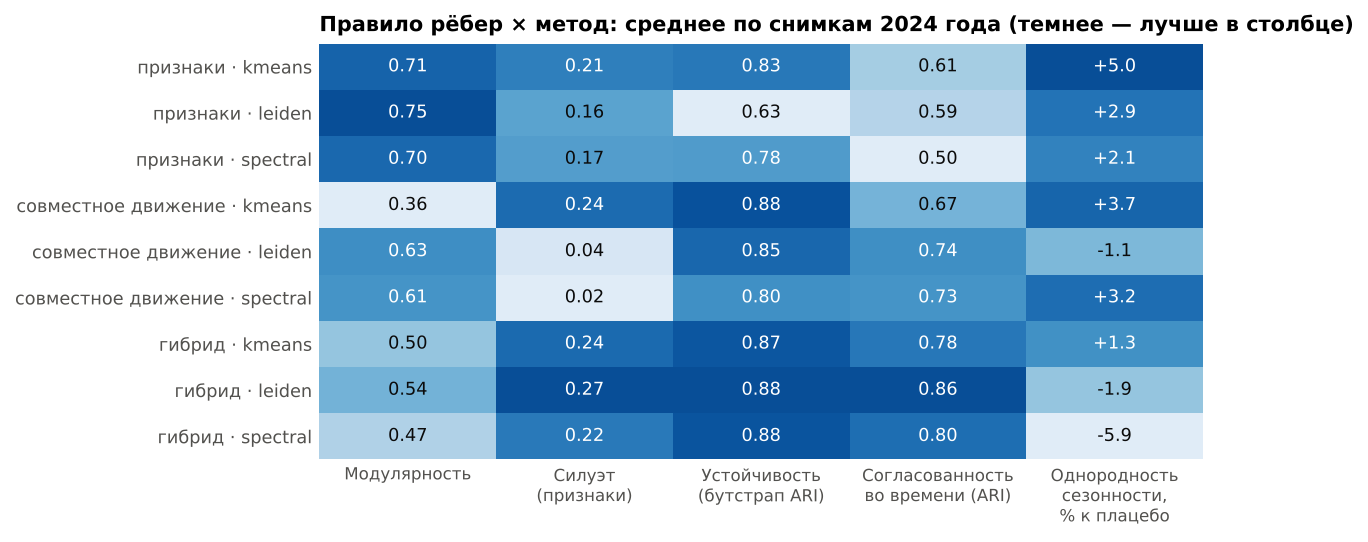
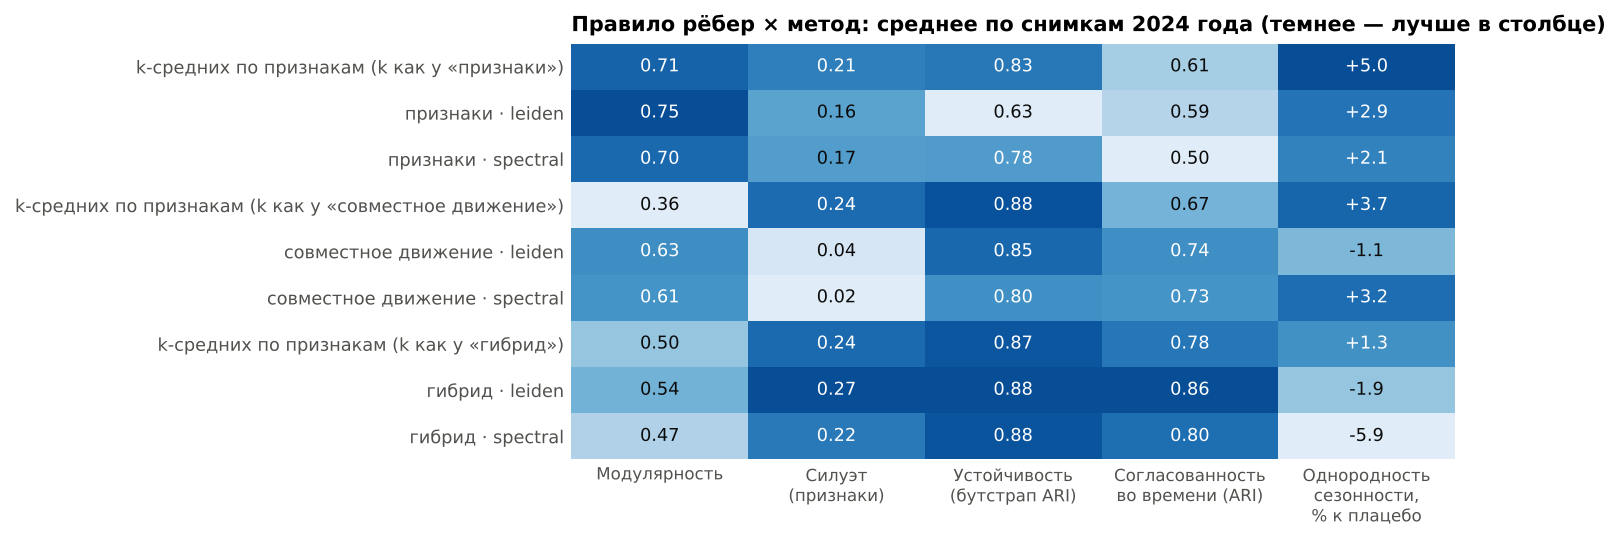
Разбор рецензента: ориентиры для географии, две спецификации проверки прогнозом, шум Leiden между зёрнами, подписи k-средних, оговорки о выборе спецификации

diff --git a/src/sclusters/pipeline.py b/src/sclusters/pipeline.py
@@ -365,9 +365,24 @@ def stage_geo(run: Run):
                 same0 = (S.loc[pa, "region"].to_numpy() == S.loc[pb, "region"].to_numpy()).mean()
                 d0 = np.median(_haversine(S.loc[pa, "lon"].to_numpy(), S.loc[pa, "lat"].to_numpy(),
                                           S.loc[pb, "lon"].to_numpy(), S.loc[pb, "lat"].to_numpy()))
+                # более строгий ориентир: случайные пары МО одного типа по названию и одного основного типа
+                tp = pd.Series([D.mo_type(x) for x in S.index], index=S.index)
+                main = run.partition(t, v, cfg["graph"]["main_rule"], cfg["cluster"]["main_method"]).reindex(S.index)
+                base = {}
+                for bname, key in [("same_region_random_same_motype", tp), ("same_region_random_same_maintype", main)]:
+                    hits, tot = 0, 0
+                    for _, grp in S.groupby(key.to_numpy()):
+                        if len(grp) < 2:
+                            continue
+                        n = min(4000, len(grp) * 20)
+                        ia, ib = rng.integers(0, len(grp), n), rng.integers(0, len(grp), n)
+                        k = ia != ib
+                        hits += (grp["region"].to_numpy()[ia[k]] == grp["region"].to_numpy()[ib[k]]).sum()
+                        tot += k.sum()
+                    base[bname] = float(hits / max(tot, 1))
                 rows.append({"month": str(t.date()), "rule": r, "scope": scope, "edges": int(m.sum()),
                              "same_region_share": float(same.mean()), "same_region_random": float(same0),
-                             "median_km": float(np.median(d)), "median_km_random": float(d0)})
+                             **base, "median_km": float(np.median(d)), "median_km_random": float(d0)})
     E = pd.DataFrame(rows)
     E.to_csv(run.out / "geo_edges.csv", index=False)
     # согласие кластеров с регионами (AMI) по всем конфигурациям
@@ -395,7 +410,19 @@ def stage_geo(run: Run):
     conc = (ok.loc[lab.index].assign(c=lab).groupby("region")["c"]
             .agg(n="size", top_share=lambda x: x.value_counts(normalize=True).iloc[0],
                  top_cluster=lambda x: int(x.value_counts().index[0])))
-    conc[conc.n >= 15].sort_values("top_share", ascending=False).to_csv(run.out / "geo_region_concentration.csv")
+    conc = conc[conc.n >= 15].sort_values("top_share", ascending=False)
+    # ориентир: та же статистика при случайной перестановке меток кластеров (200 повторов)
+    sub = ok.loc[lab.index]
+    big = conc.index
+    perm_med = []
+    for _ in range(200):
+        pl = pd.Series(rng.permutation(lab.to_numpy()), index=lab.index)
+        sh = sub.assign(c=pl).groupby("region")["c"].agg(lambda x: x.value_counts(normalize=True).iloc[0])
+        perm_med.append(float(sh.reindex(big).median()))
+    conc.to_csv(run.out / "geo_region_concentration.csv")
+    (run.out / "geo_region_concentration_null.json").write_text(json.dumps(
+        {"median_top_share": float(conc.top_share.median()), "permutation_median_mean": float(np.mean(perm_med)),
+         "permutation_median_p95": float(np.quantile(perm_med, 0.95)), "n_regions": int(len(conc))}), encoding="utf-8")
     return E
 
 

diff --git a/src/sclusters/figures.py b/src/sclusters/figures.py
@@ -59,7 +59,8 @@ def fig_method_matrix(out: Path, figs: Path, cfg):
                     color="white" if norm.iat[i, j] > 0.6 else INK, fontsize=8.5)
     ax.set_xticks(range(len(cols)), list(cols.values()), fontsize=8)
     rn = {"attr": "признаки", "comove": "совместное движение", "hybrid": "гибрид"}
-    ax.set_yticks(range(len(M)), [f"{rn[r]} · {m}" for r, m in M.index], fontsize=8.5)
+    ax.set_yticks(range(len(M)), [f"{rn[r]} · {m}" if m != "kmeans" else f"k-средних по признакам (k как у «{rn[r]}»)"
+                                  for r, m in M.index], fontsize=8.5)
     ax.tick_params(length=0)
     for s in ax.spines.values():
         s.set_visible(False)
@@ -84,7 +85,7 @@ def fig_agreement(out: Path, figs: Path, cfg):
             ax.text(j, i, f"{M.iat[i, j]:.2f}", ha="center", va="center", fontsize=7.5,
                     color="white" if M.iat[i, j] > 0.6 else INK)
     rn = {"attr": "призн.", "comove": "движ.", "hybrid": "гибр."}
-    lab = [f"{rn[k.split('/')[0]]}/{k.split('/')[1]}" for k in keys]
+    lab = [f"{rn[k.split('/')[0]]}/{k.split('/')[1]}" if k.split('/')[1] != "kmeans" else f"k-ср. (k {rn[k.split('/')[0]]})" for k in keys]
     ax.set_xticks(range(len(keys)), lab, rotation=60, ha="right", fontsize=7.5)
     ax.set_yticks(range(len(keys)), lab, fontsize=7.5)
     ax.tick_params(length=0)

diff --git a/src/sclusters/validate.py b/src/sclusters/validate.py
@@ -90,7 +90,7 @@ def summarize(E: pd.DataFrame) -> pd.DataFrame:
             pm = g["ae_sum"] / g["n"]
             row.update({"placebo_MAE_mean": pm.mean(), "placebo_MAE_p05": pm.quantile(0.05),
                         "p_vs_placebo": float((pm <= e.mean()).mean())})
-            # блочный бутстрап по месяцам прогноза: разница с национальным фактором
+            # средняя разница с национальным фактором по каждой точке прогноза
             d = (e - nat.reindex(e.index)).groupby(level="origin").mean()
             row["diff_by_origin"] = ";".join(f"{x:.0f}" for x in d)
         rows.append(row)

diff --git a/report/methodology.md b/report/methodology.md
@@ -12,19 +12,19 @@
 
 Вопрос работы: если представить 1 904 муниципальных образования как сеть, где ребро означает экономическую близость, какие группы в ней видны, насколько они устойчивы и меняются ли они от месяца к месяцу. Ответ зависит от того, что считать близостью, и это главный результат.
 
-**Первый. «Похожи» и «движутся вместе» — разные сети.** Если соединять МО по сходству уровня и структуры расходов, получается одно разбиение, если по совместному движению месячных расходов — другое. Согласие двух разбиений по скорректированному индексу Рэнда — 0,16 из 1. Это не шум: каждое из них воспроизводится на подвыборках МО (ARI 0,63 и 0,85).
+**Первый. «Похожи» и «движутся вместе» — разные сети.** Если соединять МО по сходству уровня и структуры расходов, получается одно разбиение, если по совместному движению месячных расходов — другое. Согласие двух разбиений по скорректированному индексу Рэнда — 0,16 из 1. Разбиение по совместному движению хорошо воспроизводится на подвыборках МО (ARI 0,85), разбиение по сходству — заметно хуже (0,63).
 
-**Второй. Совместное движение расходов само восстанавливает географию.** Региона и координат в данных нет. Тем не менее 21 % рёбер совместного движения соединяют МО одного региона, против 1,8 % у случайных пар (без Москвы и Санкт-Петербурга, внутренние территории которых в выгрузке выделены отдельно). Медианное расстояние между соседями — 611 км против 1 478. Кластеры совместного движения складываются в шесть макрорайонов: Москва с областью, Санкт-Петербург с Северо-Западом, Север и Дальний Восток, Волго-Уральский пояс, Сибирь с Центральной Россией, Ставрополье с соседями. Республика Татарстан на 93 % попадает в один кластер, вместе с Башкортостаном, Удмуртией, Свердловской и Оренбургской областями.
+**Второй. Сеть, построенная без координат, сильно связана с географией.** Региона и координат в данных нет. Тем не менее 21 % рёбер совместного движения соединяют МО одного региона (без Москвы и Санкт-Петербурга, внутренние территории которых в выгрузке выделены отдельно). У случайных пар — 1,8 %, у случайных пар МО одного типа по названию — 5,7 %, у пар одного основного типа — 8,2 %. Медианное расстояние между соседями — 611 км против 1 470. Сходство по уровню и структуре тоже географично (17 % рёбер внутри региона): совместное движение добавляет к нему примерно четыре процентных пункта. Пять из шести кластеров совместного движения читаются как макрорайоны: Москва с областью, Санкт-Петербург с Северо-Западом, Север и Дальний Восток, Волго-Уральский пояс, Ставрополье с соседями; шестой, самый крупный, — остаточный. Республика Татарстан на 93 % попадает в волго-уральский кластер.
 
-**Третий. Типов немного, и они почти не меняются за год.** Основное разбиение (гибридная сеть, Leiden) даёт четыре типа: районы и малые города, столичные агломерации, региональные города, Север и Дальний Восток. 90 % МО ни разу не сменили тип за 12 месяцев, в среднем за месяц тип меняют 1,9 % МО. Единственный устойчивый поток — из районов в региональные города: 56 МО за год, обратно 9.
+**Третий. Типов немного, и за год они меняются мало.** Основное разбиение (гибридная сеть, Leiden) даёт четыре типа: районы и малые города, столичные агломерации, региональные города, Север и Дальний Восток. За месяц тип меняют от 1,9 % МО (кластеризация стартует с разбиения прошлого месяца) до 5,9 % (каждый месяц с нуля); два запуска на одном и том же снимке с разными зёрнами расходятся на 1,7 %. Окна соседних снимков перекрываются, поэтому часть устойчивости механическая. Заметный нетто-поток один — из районов в региональные города: за год 56 МО против 9 обратно.
 
-**Четвёртый, отрицательный. Типы не помогают прогнозу.** Если строить прогноз расходов от общего фактора своего типа, а не страны, ошибка растёт на 3,9 %, и разбиение не лучше случайных групп тех же размеров. Сезонная динамика 2023–2024 годов общая для страны; типы различаются уровнем, структурой и географией, а не ритмом. Это согласуется с главным выводом «Шока по расписанию»: панель страны целиком — лучший ориентир для короткого прогноза.
+**Четвёртый, отрицательный. Типы не помогают прогнозу.** Если строить прогноз расходов от общего фактора своего типа, а не страны, ошибка растёт на 1,5–3,9 % в зависимости от спецификации, и разбиение не лучше случайных групп тех же размеров. Ни одно из 18 сравнённых разбиений не обыгрывает фактор страны больше чем на 1 %. Сезонная динамика 2023–2024 годов общая для страны; типы различаются уровнем, структурой и географией, а не ритмом. Это согласуется с главным выводом «Шока по расписанию»: панель страны целиком — лучший ориентир для короткого прогноза.
 
 ---
 
 ## 2. Данные
 
-Выгрузка СберИндекса от 25.11.2025, sha256 `dbe07d6a…15e0f1` — та же, что в «Шоке по расписанию». Показатель — безналичные потребительские расходы в рублях в определении СберИндекса, месячная частота, 01.2023–12.2024, шесть рядов на МО: «Все категории» и пять категорий (продовольствие, маркетплейсы, транспорт, здоровье, общественное питание).
+Выгрузка СберИндекса от 25.11.2025, sha256 `dbe07d6a…15e0f1` — та же, что в «Шоке по расписанию». Показатель — безналичные потребительские расходы в рублях в определении СберИндекса (в описании выгрузки не уточняется, на какую единицу — жителя, клиента или карту — они приходятся), месячная частота, 01.2023–12.2024, шесть рядов на МО: «Все категории» и пять категорий (продовольствие, маркетплейсы, транспорт, здоровье, общественное питание).
 
 | | |
 |---|---|
@@ -58,7 +58,7 @@
 
 Признаки стандартизуются робастно (медиана, межквартильный размах), обрезаются на ±5, и вес блока делится между его признаками, чтобы блок из шести признаков не перевешивал блок из одного.
 
-**Основной вариант — level + structure, без growth.** Сначала основным был полный набор. Внешняя проверка (§7) показала, что разбиения, в которых участвует текущий прирост, хуже случайных групп тех же размеров: они собирают МО с одинаковым временным отклонением, которое затем рассасывается. Тип локальной экономики — то, чем МО является, а не куда его качнуло в этом квартале; изменение во времени дают сами ежемесячные снимки. Полный вариант сохранён в конфигурации и во всех таблицах сравнения.
+**Основной вариант — level + structure, без growth.** Сначала основным был полный набор. Решение исключить прирост принято после внешней проверки на тех же точках прогноза (§7), то есть по тестовым данным, и это нужно учитывать. В основной спецификации проверки разбиения по сходству с приростом хуже случайных групп тех же размеров: они собирают МО с одинаковым временным отклонением, которое затем рассасывается. Содержательный довод тот же: тип локальной экономики — то, чем МО является, а не куда его качнуло в этом квартале; изменение во времени дают сами ежемесячные снимки. Полный вариант сохранён в конфигурации и во всех таблицах сравнения.
 
 ### 3.2. Три правила рёбер
 
@@ -72,7 +72,7 @@
 
 Графы неориентированные: ребро есть, если хотя бы один конец входит в k соседей другого. Все графы связные, средняя степень 14 у attr, 15 у comove, 28 у гибрида (`outputs/graph_summary.csv`).
 
-Правило comove не зависит от признаков узла, поэтому его разбиения одинаковы в обоих вариантах признаков.
+Граф comove не зависит от признаков узла, поэтому разбиения Leiden и спектральной кластеризации на нём одинаковы в обоих вариантах признаков.
 
 ---
 
@@ -81,9 +81,9 @@
 **Методы.**
 - **Leiden** (Traag, Waltman, van Eck, 2019) — максимизация качества разбиения в RB-конфигурационной модели с параметром разрешения γ, 10 запусков с разными зёрнами, берётся лучший. Число кластеров выбирает метод. Leiden работает только со структурой графа: признаки попадают в него через веса рёбер attr и hybrid.
 - **Спектральная кластеризация** на той же матрице смежности, число кластеров — как у Leiden на том же снимке.
-- **k-средних на признаках без графа**, то же число кластеров. Контроль: что сеть добавляет к признакам.
+- **k-средних на признаках без графа**, то же число кластеров. Контроль: что сеть добавляет к признакам. Граф в k-средних не участвует, поэтому строки «k-средних» в таблицах различаются только числом кластеров, взятым у Leiden на соответствующем правиле.
 
-Кластеры меньше 15 МО переносятся в кластер, с которым у их узлов больше всего веса рёбер.
+Узлы кластеров меньше 15 МО переносятся в кластер, с которым у них больше всего веса рёбер, а при отсутствии рёбер — к ближайшему центроиду.
 
 **Метрики.**
 
@@ -106,31 +106,31 @@
 
 | Правило · метод | k | Модулярность | Силуэт | Устойчивость | Во времени | AMI с регионом | Прогноз к плацебо |
 |---|---|---|---|---|---|---|---|
-| сходство · Leiden | 8,1 | 0,75 | 0,16 | 0,63 | 0,59 | 0,32 | −2,9 % |
+| сходство · Leiden | 8,1 | 0,75 | 0,16 | 0,63 | 0,59 | 0,31 | −2,9 % |
 | сходство · спектральная | 8,1 | 0,70 | 0,17 | 0,78 | 0,50 | 0,28 | −2,1 % |
-| сходство · k-средних | 8,1 | 0,71 | 0,21 | 0,83 | 0,61 | 0,29 | −5,0 % |
+| k-средних по признакам, k = 8 | 8,1 | 0,71 | 0,21 | 0,83 | 0,61 | 0,29 | −5,0 % |
 | движение · Leiden | 5,8 | 0,63 | 0,04 | 0,85 | 0,74 | 0,26 | +1,1 % |
-| движение · спектральная | 5,8 | 0,61 | 0,02 | 0,80 | 0,74 | 0,26 | −3,2 % |
-| движение · k-средних | 5,8 | 0,36 | 0,24 | 0,88 | 0,67 | 0,26 | −3,7 % |
+| движение · спектральная | 5,8 | 0,61 | 0,02 | 0,80 | 0,73 | 0,26 | −3,2 % |
+| k-средних по признакам, k = 6 | 5,8 | 0,36 | 0,24 | 0,88 | 0,67 | 0,26 | −3,7 % |
 | **гибрид · Leiden** | **4,1** | **0,54** | **0,27** | **0,88** | **0,86** | **0,25** | **+1,9 %** |
 | гибрид · спектральная | 4,1 | 0,47 | 0,22 | 0,88 | 0,80 | 0,23 | +5,9 % |
-| гибрид · k-средних | 4,1 | 0,50 | 0,24 | 0,87 | 0,78 | 0,21 | −1,3 % |
+| k-средних по признакам, k = 4 | 4,1 | 0,50 | 0,24 | 0,87 | 0,78 | 0,21 | −1,3 % |
 
-Последний столбец — ошибка прогноза относительно средней по 50 случайным разбиениям тех же размеров; минус — разбиение лучше случайного.
+Модулярность у k-средних посчитана на графе соответствующего правила. AMI с регионом включает внутригородские территории Москвы и Санкт-Петербурга и поэтому завышен для всех строк одинаково. Последний столбец — ошибка прогноза в основной спецификации (§7) относительно средней по 50 случайным разбиениям тех же размеров; минус — разбиение лучше случайного.
 
 Что видно.
 
-**Правило рёбер важнее метода.** Внутри одного правила три метода согласуются заметно лучше, чем один метод на разных правилах (рис. 2). Leiden на сходстве и Leiden на совместном движении согласуются на 0,16, гибрид — посередине (0,31 со сходством, 0,50 с движением).
+**Правило рёбер важнее метода.** Leiden на сходстве и Leiden на совместном движении согласуются на 0,16, гибрид — посередине (0,31 со сходством, 0,50 с движением). Внутри одного правила методы согласуются лучше (рис. 2), но часть этого согласия обеспечена тем, что у них одинаковое число кластеров.
 
-**Сеть даёт структуру, признаки — компактность.** k-средних выигрывает по силуэту, что ожидаемо: он оптимизирует именно компактность в признаках. Leiden выигрывает по модулярности на всех трёх правилах. Спектральная кластеризация на гибриде собирает 66 % МО в один кластер — это её известная слабость на графах с неравномерной плотностью.
+**Сеть даёт структуру, признаки — компактность.** При 6 и 8 кластерах k-средних выигрывает по силуэту, что ожидаемо: он оптимизирует именно компактность в признаках. При четырёх кластерах лучший силуэт у Leiden на гибриде (0,27 против 0,24). Leiden выигрывает по модулярности на всех трёх правилах. Спектральная кластеризация на гибриде собирает 66 % МО в один кластер — это её известная слабость на графах с неравномерной плотностью.
 
-**Почему основная конфигурация — гибрид · Leiden.** Наибольшая согласованность во времени (0,86), высокая устойчивость (0,88), лучший силуэт среди сетевых методов, при этом четыре кластера читаются как содержательные типы (§6). По внешней проверке прогнозом она не лучше случайных групп; это обсуждается в §7 и не скрыто.
+**Почему основная конфигурация — гибрид · Leiden.** Наибольшая согласованность во времени (0,86), высокая устойчивость (0,88), лучший силуэт среди всех строк, при этом четыре кластера читаются как содержательные типы (§6). По внешней проверке прогнозом она не лучше случайных групп; это обсуждается в §7 и не скрыто.
 
 ---
 
 ## 6. Типы локальных экономик
 
-Основная конфигурация, декабрь 2024 года (`outputs/profiles.csv`, рис. 5 и 9). Названия — авторская интерпретация профилей, состава по типу МО и географии.
+Основная конфигурация, снимок декабря 2024 года: признаки — средние за октябрь–декабрь (`outputs/profiles.csv`, рис. 5 и 9). Названия — авторская интерпретация профилей, состава по типу МО и географии.
 
 | Тип | МО | Расходы, медиана, руб. | Продовольствие | Маркетплейсы | Общепит | Транспорт | Состав |
 |---|---|---|---|---|---|---|---|
@@ -141,35 +141,37 @@
 
 Для сравнения: медиана по всем МО — 29 200 руб., доля продовольствия 42 %, маркетплейсов 18,5 %, общепита 2,5 %.
 
-**Ось «столица — район» — это ось обязательных и необязательных расходов.** От района к столице доля продовольствия падает с 44 до 31 %, доля общепита растёт вчетверо, с 1,6 до 7,2 %. Маркетплейсы — исключение из этой логики: их доля выше всего в районах (20 %), где физическая розница беднее.
+**Ось «столица — район» — это ось обязательных и необязательных расходов.** От района к столице доля продовольствия падает с 44 до 31 %, доля общепита растёт вчетверо, с 1,6 до 7,2 %. Маркетплейсы — исключение из этой логики: их доля выше всего в районах (20 %).
 
-**Север и Дальний Восток — отдельный тип, а не «богатые районы».** По уровню расходов он между региональными городами и столицами, а по структуре ближе к районам: много продовольствия, мало маркетплейсов (13,6 %, минимум среди типов) и мало расходов на здоровье. Похоже на северную надбавку к доходу при ограниченном предложении услуг и дорогой доставке.
+**Север и Дальний Восток — отдельный тип, а не «богатые районы».** По уровню расходов он между региональными городами и столицами, а по структуре ближе к районам: много продовольствия, мало маркетплейсов (13,6 %, минимум среди типов) и мало расходов на здоровье. Одна из возможных причин — северные надбавки к доходу при ограниченном предложении услуг и дорогой доставке; здесь это не проверялось.
 
-**Маркетплейсы догоняют там, где их меньше всего.** Годовой прирост расходов на маркетплейсах в декабре 2024 года относительно медианы МО (разность log-приростов): Север и Дальний Восток +0,11, районы +0,04, столицы −0,11, то есть на Севере расходы на маркетплейсах росли примерно на 12 % быстрее, чем в типичном МО, а в столицах — на 10 % медленнее. Прирост в разбиении не участвует, поэтому это независимое наблюдение, а не следствие построения: доставка распространяется от центра к периферии.
+**Маркетплейсы растут быстрее там, где их доля ниже.** Годовой log-прирост расходов на маркетплейсах в октябре–декабре 2024 года относительно медианы МО: Север и Дальний Восток +0,11, районы +0,04, столицы −0,11. Иначе говоря, годовой индекс расходов на маркетплейсах у медианного северного МО примерно в 1,12 раза выше, чем у типичного, а у столичного — в 0,90 раза. Прирост в разбиении не участвует, но с уровнем расходов, который участвует, он связан (ранговая корреляция −0,40), так что это наблюдение не вполне независимо от построения. Распространение доставки от центра к периферии — гипотеза, которую эти данные не проверяют.
 
 ---
 
 ## 7. Внешняя проверка через прогноз
 
-Если кластер — реальный тип экономики с общей динамикой, то общий фактор кластера должен описывать его МО лучше, чем общий фактор страны. Проверка — контрольная модель `factor_only` из «Шока по расписанию», в которой фактор считается внутри кластера. Модель не обучает ни одного параметра: МО держит своё последнее отклонение от фактора, фактор продлевается на 1–3 месяца по своему значению год назад с поправкой на годовой прирост страны. Разбиение для точки прогноза T строится по снимку T. Точки прогноза — июнь–сентябрь 2024 года, 22 848 пар МО × точка × горизонт.
+Если кластер — реальный тип экономики с общей динамикой, то общий фактор кластера должен описывать его МО лучше, чем общий фактор страны. Проверка — контрольная модель `factor_only` из «Шока по расписанию», в которой фактор считается внутри кластера. Модель не обучает ни одного параметра: МО держит своё последнее отклонение от фактора, фактор продлевается на 1–3 месяца по своему значению год назад с поправкой на годовой прирост. Разбиение для точки прогноза T строится по снимку T. Точки прогноза — июнь–сентябрь 2024 года, 22 848 пар МО × точка × горизонт.
 
-Контроль — 50 случайных перестановок меток с теми же размерами кластеров: выигрыш, который даёт любое деление на группы такого размера, не засчитывается.
+Две спецификации различаются тем, чей годовой прирост переносится вперёд: в основной — прирост страны (кластер даёт только сезонный профиль), во второй — прирост самого кластера. Контроль — 50 случайных перестановок меток с теми же размерами кластеров. Ориентир — деление МО на пять групп по типу из названия (район, округ, городской округ, город, внутригородская территория).
 
-| Разбиение | MAE, руб. | к фактору страны | к плацебо |
-|---|---|---|---|
-| Фактор страны | 954,5 | — | — |
-| Основное: гибрид · Leiden | 992,1 | +3,9 % | +1,9 %, хуже 94 % случайных |
-| Лучшее: движение · k-средних | 946,7 | −0,8 % | −3,7 %, лучше всех случайных |
-| Сходство · k-средних | 951,3 | −0,3 % | −5,0 %, лучше всех случайных |
-| С текущим приростом в признаках: сходство · Leiden | 1 039,3 | +8,9 % | +6,0 %, хуже всех случайных |
+| Разбиение | MAE, основная | к фактору страны | к плацебо | MAE, прирост кластера | к плацебо |
+|---|---|---|---|---|---|
+| Фактор страны | 954,5 | — | — | 954,5 | — |
+| **Основное: гибрид · Leiden** | 992,1 | +3,9 % | +1,9 % | 969,0 | +0,2 % |
+| Сходство · Leiden | 968,6 | +1,5 % | −2,9 % | 987,2 | −0,3 % |
+| k-средних по признакам, k = 6 | 946,7 | −0,8 % | −3,7 % | 973,4 | −0,4 % |
+| k-средних по признакам, k = 8 | 951,3 | −0,3 % | −5,0 % | 1 010,8 | +2,0 % |
+| Тип МО по названию | 961,5 | +0,7 % | −2,0 % | 1 024,5 | +5,2 % |
+| С приростом в признаках: сходство · Leiden | 1 039,3 | +8,9 % | +6,0 % | 1 006,1 | +3,2 % |
 
-Три вывода.
+Полная таблица — `outputs/validation_forecast.csv`.
 
-**Общий фактор страны не побеждён.** Лучшее разбиение улучшает его на 0,8 %, и выигрыш неустойчив по точкам прогноза. Двух лет мало, чтобы оценить сезонность группы из сотни МО точнее, чем сезонность двух тысяч.
+**Общий фактор страны не побеждён.** Ни одно из 18 разбиений ни в одной спецификации не улучшает его больше чем на 1 %, и выигрыш неустойчив по точкам прогноза. Двух лет мало, чтобы оценить сезонность группы из сотни МО точнее, чем сезонность двух тысяч.
 
-**Признаки уровня и структуры несут информацию о сезонности**: разбиения по ним однороднее случайных групп на 2–5 %. Основное разбиение — нет: гибридный граф с крупным кластером районов (56 % МО) сглаживает различия.
+**Сравнение с плацебо зависит от спецификации.** В основной разбиения по уровню и структуре однороднее случайных групп на 2–5 %, но и тривиальное деление по типу МО из названия даёт 2 %. Во второй спецификации ни одно из них от случайных не отличается. Основное разбиение не лучше случайных ни в одной. Поправки на множественные сравнения нет; при 18 разбиениях и 50 перестановках отдельные p ≈ 0 не стоит читать как значимые сами по себе.
 
-**Текущий прирост в признаках вреден.** На правиле сходства все три метода с блоком growth хуже 94–100 % случайных разбиений тех же размеров, а без него — лучше случайных. Это и стало причиной исключить прирост из основного варианта (§3.1).
+**Прирост в признаках.** В основной спецификации все три метода на правиле сходства с блоком growth хуже 94–100 % случайных разбиений. Это стало поводом исключить прирост из основного варианта (§3.1); во второй спецификации картина смешанная (k-средних с приростом лучше случайных), так что вывод держится на одной спецификации и на тех же точках прогноза.
 
 Итог для интерпретации: найденные типы — это типы уровня, структуры и места, а не типы ритма. Ритм 2023–2024 годов у страны общий.
 
@@ -188,14 +190,19 @@ Leiden на каждом снимке независимо даёт номера
 |---|---|---|---|
 | Независимый | 5,9 % | 13,1 % | 0,545 |
 | Эволюционный | 1,9 % | 2,3 % | 0,539 |
+| Ориентир: два запуска на одном снимке с разными зёрнами | 1,7 % | 2,5 % | — |
 
-Цена устойчивости — 0,006 модулярности, то есть почти ничего (рис. 7). Значит, две трети месячной «смены типа» в независимом режиме — шум оптимизации, а не экономика. Дальше используется эволюционный режим.
+Цена устойчивости — 0,006 модулярности (рис. 7). Как читать эти числа. Эволюционный режим по построению держится за прошлое разбиение, поэтому 1,9 % — нижняя граница смены типа. Независимый режим добавляет к реальным переходам расхождение запусков, которое на одном и том же снимке составляет 1,7 %. Реальная доля МО, меняющих тип за месяц, лежит между этими оценками; точнее данные её не определяют.
+
+Максимум независимого режима (13,1 %) приходится на декабрь: при пересчёте с нуля столичный тип распадается на Москву и Санкт-Петербург, и 104 МО переходят в новый кластер. Эволюционный режим этот распад не воспроизводит. Это пример того, что тёплый старт может подавлять реальные изменения. Дальше используется эволюционный режим, с этой оговоркой.
+
+Ещё одна оговорка: признаки соседних снимков считаются по перекрывающимся окнам (два месяца из трёх), граф совместного движения — по окнам с одиннадцатью общими месяцами из двенадцати. Часть устойчивости во времени поэтому механическая.
 
 ### 8.2. Что происходит за год
 
 Кластеры соседних месяцев сопоставляются по коэффициенту Жаккара (венгерский алгоритм), сквозной номер наследуется при Жаккаре не ниже 0,3. События — рождение, исчезновение, слияние, распад — классифицируются по матрице пересечений (Greene, Doyle, Cunningham, 2010).
 
-- Событий за год нет: все четыре типа проходят через 12 месяцев, не сливаясь и не распадаясь.
+- В эволюционном режиме событий за год нет: все четыре типа проходят через 12 месяцев, не сливаясь и не распадаясь (о декабрьском распаде в независимом режиме — выше).
 - 1 718 МО из 1 904 (90,2 %) ни разу не сменили тип.
 - Переходы январь → декабрь (рис. 4, 8):
 
@@ -206,9 +213,9 @@ Leiden на каждом снимке независимо даёт номера
 | Регион. города | 9 | 4 | 273 | 3 |
 | Север | 4 | 1 | 6 | 172 |
 
-Единственный заметный поток — из районов в региональные города (56 против 9 обратно). Тип «региональные города» вырос с 289 до 346 МО, районы сократились с 1 123 до 1 066.
+Заметный нетто-поток один — из районов в региональные города: 56 против 9 обратно при сравнении января с декабрём. Помесячно между этими двумя типами переходы идут в обе стороны (118 туда и 72 обратно за 11 переходов), то есть часть МО находится на границе типов. Тип «региональные города» вырос с 289 до 346 МО, районы сократились с 1 123 до 1 066.
 
-**Паводки весны 2024 года.** Пять городов, названных в первоисточниках поимённо (Орск, Новотроицк, Оренбург, Курган, Ишим), весь год остаются в типе «региональные города». Это согласуется с «Шоком по расписанию»: сдвиг расходов в этих городах (−3,9 п. п. по годовому приросту) виден в категориях, но тип локальной экономики не меняет.
+**Паводки весны 2024 года.** Пять городов, названных в первоисточниках поимённо (Орск, Новотроицк, Оренбург, Курган, Ишим), весь год остаются в типе «региональные города». В «Шоке по расписанию» сдвиг годового прироста расходов в этих городах оценён в −3,9 п. п.; здесь эта оценка не пересчитывалась. Признаки основного варианта не включают прирост, а тёплый старт держит прежний тип, поэтому эта проверка слабая: смена типа здесь и не ожидалась бы.
 
 ---
 
@@ -222,17 +229,19 @@ Leiden на каждом снимке независимо даёт номера
 | неоднозначно (например, «Александровский» есть в нескольких регионах) | 104 |
 | не найдено | 56 |
 
-**Рёбра соединяют соседей.** Доля рёбер внутри одного региона и медианное расстояние между концами ребра (`outputs/geo_edges.csv`), без Москвы и Санкт-Петербурга:
+Выборочная проверка 45 сопоставлений ошибок не нашла. Известные слабые места: не найдены некоторые крупные города (например, Нижний Новгород, Нижний Тагил, Великий Новгород), а у нескольких пар «район — одноимённый город» в OSM общая запись, поэтому у них совпадают центроиды.
 
-| Правило | Внутри региона | У случайных пар | Медиана, км | У случайных пар, км |
-|---|---|---|---|---|
-| сходство | 16,7 % | 1,8 % | 681 | 1 466 |
-| совместное движение | **21,4 %** | 1,8 % | **611** | 1 478 |
-| гибрид | 17,6 % | 1,8 % | 667 | 1 472 |
+**Рёбра соединяют соседей.** Доля рёбер внутри одного региона и медианное расстояние между концами ребра (`outputs/geo_edges.csv`, среднее по 12 снимкам), без Москвы и Санкт-Петербурга. Три ориентира: случайные пары; случайные пары МО одного типа по названию (район с районом, город с городом); случайные пары МО одного основного типа.
 
-С федеральными городами доля для совместного движения — 30,7 % против 2,2 %.
+| Правило | Внутри региона | Случайные пары | Пары одного типа МО | Пары одного основного типа | Медиана, км | Случайные пары, км |
+|---|---|---|---|---|---|---|
+| сходство | 16,7 % | 1,8 % | 5,7 % | 8,2 % | 681 | 1 470 |
+| совместное движение | **21,4 %** | 1,8 % | 5,7 % | 8,2 % | **611** | 1 471 |
+| гибрид | 17,6 % | 1,8 % | 5,7 % | 8,2 % | 667 | 1 470 |
 
-**Кластеры совместного движения — макрорайоны** (`outputs/geo_cluster_regions.csv`, рис. 9, нижняя карта):
+С федеральными городами доля для совместного движения — 30,7 %. Даже против самого строгого ориентира рёбра совместного движения соединяют МО одного региона в 2,6 раза чаще. Но и сходство по уровню и структуре географично: совместное движение добавляет к нему около 4,7 п. п.
+
+**Кластеры совместного движения** (`outputs/geo_cluster_regions.csv`, рис. 9, нижняя карта; число — МО, сопоставленные с OSM):
 
 | Кластер | МО | Крупнейшие регионы |
 |---|---|---|
@@ -240,10 +249,10 @@ Leiden на каждом снимке независимо даёт номера
 | Санкт-Петербург и Северо-Запад | 121 | Санкт-Петербург 87, Ленинградская 12, Псковская 5 |
 | Север и Дальний Восток | 159 | Якутия 26, Коми 14, ЯНАО 12, Приморье 11, Хабаровский край 10, Мурманская 10 |
 | Волго-Уральский пояс | 449 | Татарстан 38, Свердловская 37, Башкортостан 32, Кировская 23, Оренбургская 21 |
-| Сибирь и Центральная Россия | 765 | Алтайский край 46, Красноярский край 34, Иркутская 28, Нижегородская 28 |
 | Ставрополье и соседи | 51 | Ставропольский край 24, Волгоградская 7 |
+| Остаточный: Сибирь и Центральная Россия | 765 | 64 региона; крупнейшие — Алтайский край 46, Красноярский край 34, Иркутская 28, Нижегородская 28 |
 
-Медианный регион (из 54 регионов, где сопоставлено не меньше 15 МО) на 67 % попадает в один кластер совместного движения. Санкт-Петербург и Якутия — на 100 %, Москва — на 99 %, Татарстан — на 93 %, Ставропольский край — на 92 %.
+Медианный регион (из 54 регионов, где сопоставлено не меньше 15 МО) на 67 % попадает в один кластер совместного движения; при случайной перестановке меток — 44 % (95-й перцентиль 46 %). Санкт-Петербург и Якутия — на 100 %, Москва — на 99 %, Татарстан — на 93 %, Ставропольский край — на 92 %. У соседей Татарстана концентрация ниже: Башкортостан 57 %, Оренбургская область 64 %, Свердловская 65 %, Удмуртия 64 % — все в том же волго-уральском кластере.
 
 Почему месячные расходы соседей движутся вместе, данные не говорят. Правдоподобные общие факторы — региональный календарь выплат, региональные меры поддержки, погода, логистика доставки; ни один из них здесь не проверялся.
 
@@ -253,10 +262,11 @@ Leiden на каждом снимке независимо даёт номера
 
 - **Два года данных.** Годовой прирост есть только для 2024 года, отсюда 12 снимков, а не 24. Для выводов о динамике типов этого мало; результат «типы стабильны» относится к 2024 году.
 - **Определение показателя.** Расходы — в определении СберИндекса: клиенты одного банка, безналичные операции. Место приписки расхода (место покупки или место жительства) в описании выгрузки не раскрыто; маятниковая миграция может переносить расходы пригородов в город.
-- **Исключённые МО.** 49 одноимённых названий и 165 МО с неполной историей хотя бы в одной категории. Их тип неизвестен, и выводы о составе типов относятся к 1 904 МО.
+- **Исключённые МО.** 49 одноимённых названий и 165 МО с неполной историей хотя бы в одной категории. Их тип неизвестен, и выводы о составе типов относятся к 1 904 МО. Отбор по полной истории до декабря 2024 года использует информацию всего периода; для описательного исследования это допустимо, для прогноза — нет.
+- **Выбор спецификации по тестовым данным.** Исключение прироста из признаков (§3.1) и правило выбора γ (§4) приняты после того, как были посчитаны внешняя проверка и сетка устойчивости на тех же данных.
+- **Тёплый старт и перекрывающиеся окна** занижают смену типа (§8.1); оценка устойчивости типов — нижняя граница изменчивости.
 - **Сопоставление с OSM.** 8,4 % МО без региона; репозиторий с границами OSM обновлён в январе 2024 года, и после преобразований районов в округа часть названий могла разойтись. Внешняя проверка географии идёт на 1 744 МО.
 - **Названия типов** — интерпретация автора. Числа профилей приведены полностью, чтобы читатель мог назвать их иначе.
-- **Выбор γ** сформулирован после просмотра сетки (§4).
 
 ---
 

diff --git a/README.md b/README.md
@@ -10,9 +10,9 @@
 ## Результаты в четырёх строках
 
 1. **«Похожи» и «движутся вместе» — разные сети.** Разбиение по сходству уровня и структуры расходов и разбиение по совместному движению расходов согласуются на 0,16 (ARI).
-2. **Совместное движение восстанавливает географию, которой нет в данных.** 21 % рёбер соединяют МО одного региона против 1,8 % у случайных пар; кластеры складываются в макрорайоны — Москва, Санкт-Петербург с Северо-Западом, Север и Дальний Восток, Волго-Уральский пояс, Сибирь с Центром, Ставрополье.
-3. **Четыре типа почти не меняются за год.** Районы и малые города, столичные агломерации, региональные города, Север и Дальний Восток; 90 % МО ни разу не сменили тип, единственный устойчивый поток — из районов в региональные города.
-4. **Типы не помогают прогнозу.** Общий фактор типа даёт ошибку на 3,9 % больше, чем общий фактор страны: типы различаются уровнем, структурой и местом, а не ритмом.
+2. **Сеть без координат сильно связана с географией.** 21 % рёбер совместного движения соединяют МО одного региона против 8 % у случайных пар МО одного типа; пять из шести кластеров читаются как макрорайоны — Москва, Санкт-Петербург с Северо-Западом, Север и Дальний Восток, Волго-Уральский пояс, Ставрополье.
+3. **Четыре типа за год меняются мало.** Районы и малые города, столичные агломерации, региональные города, Север и Дальний Восток; за месяц тип меняют от 1,9 до 5,9 % МО в зависимости от режима, нетто-поток один — из районов в региональные города.
+4. **Типы не помогают прогнозу.** Общий фактор типа даёт ошибку на 1,5–3,9 % больше, чем общий фактор страны: типы различаются уровнем, структурой и местом, а не ритмом.
 
 ![Карта типов](outputs/figures/fig9_map.png)
 
